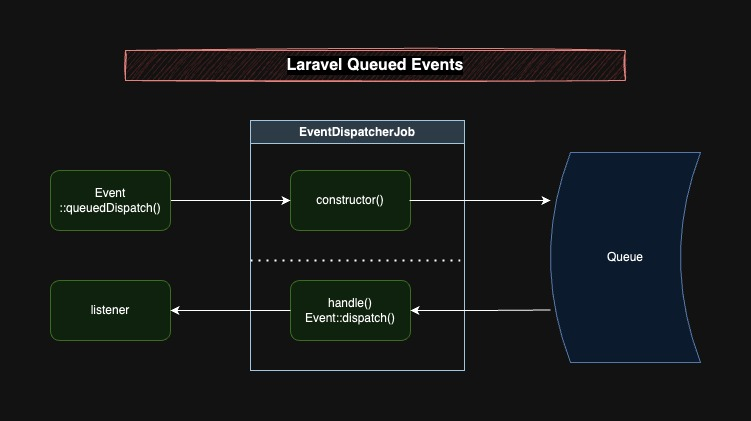
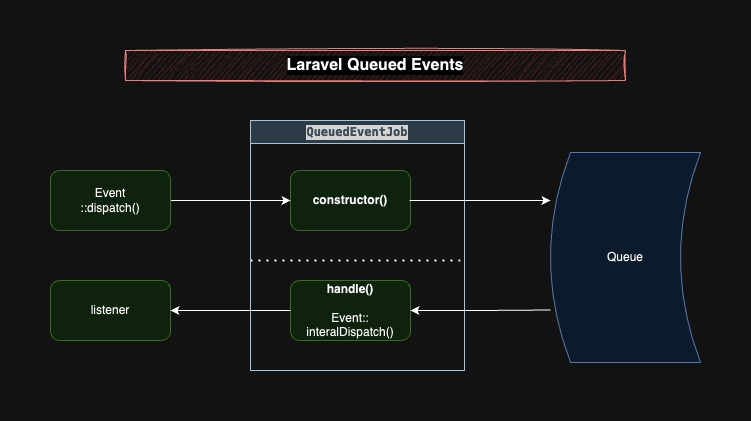
refactor/renamed-functions (#2)

diff --git a/tests/Feature/DispatchTest.php b/tests/Feature/DispatchTest.php
@@ -5,60 +5,118 @@ use Illuminate\Support\Facades\Bus;
 use Illuminate\Support\Facades\Event;
 use Workbench\App\Events\UserCreatedEvent;
 
-test('queuedDispatch should dispatch a job', function () {
+test('dispatch should dispatch a job and not dispatch event', function () {
     Bus::fake();
+    Event::fake();
 
     $payload = ['foo' => 'bar'];
 
-    UserCreatedEvent::queuedDispatch($payload);
+    UserCreatedEvent::dispatch($payload);
 
     Bus::assertDispatched(static function (QueuedEventJob $job) use ($payload) {
         return $job->event->object === $payload;
     });
+
+    Event::assertNotDispatched(UserCreatedEvent::class);
 });
 
-test('queuedDispatchIf should dispatch a job', function () {
+test('internalDispatch should not dispatch a job and dispatch event', function () {
     Bus::fake();
+    Event::fake();
 
     $payload = ['foo' => 'bar'];
 
-    UserCreatedEvent::queuedDispatchIf(true, $payload);
-
-    Bus::assertDispatched(static function (QueuedEventJob $job) use ($payload) {
-        return $job->event->object === $payload;
-    });
-});
-
-test('queuedDispatchUnless should dispatch a job', function () {
-    Bus::fake();
-
-    $payload = ['foo' => 'bar'];
-
-    UserCreatedEvent::queuedDispatchUnless(false, $payload);
-
-    Bus::assertDispatched(static function (QueuedEventJob $job) use ($payload) {
-        return $job->event->object === $payload;
-    });
-});
-
-test('queuedDispatchIf event should not dispatch a job if condition is falsy', function () {
-    Bus::fake();
-
-    $payload = ['foo' => 'bar'];
-
-    UserCreatedEvent::queuedDispatchIf(false, $payload);
+    UserCreatedEvent::internalDispatch($payload);
 
     Bus::assertNotDispatched(QueuedEventJob::class);
+
+    Event::assertDispatched(static function (UserCreatedEvent $event) use ($payload) {
+        return $event->object === $payload;
+    });
 });
 
-test('queuedDispatchUnless should not dispatch a job if condition is truthy', function () {
+test('dispatchIf should dispatch a job and not dispatch event', function () {
     Bus::fake();
+    Event::fake();
 
     $payload = ['foo' => 'bar'];
 
-    UserCreatedEvent::queuedDispatchUnless(true, $payload);
+    UserCreatedEvent::dispatchIf(true, $payload);
+
+    Bus::assertDispatched(static function (QueuedEventJob $job) use ($payload) {
+        return $job->event->object === $payload;
+    });
+
+    Event::assertNotDispatched(UserCreatedEvent::class);
+});
+
+test('internalDispatchIf should not dispatch a job and dispatch event', function () {
+    Bus::fake();
+    Event::fake();
+
+    $payload = ['foo' => 'bar'];
+
+    UserCreatedEvent::internalDispatchIf(true, $payload);
 
     Bus::assertNotDispatched(QueuedEventJob::class);
+
+    Event::assertDispatched(static function (UserCreatedEvent $event) use ($payload) {
+        return $event->object === $payload;
+    });
+});
+
+test('dispatchUnless should dispatch a job and not dispatch event', function () {
+    Bus::fake();
+    Event::fake();
+
+    $payload = ['foo' => 'bar'];
+
+    UserCreatedEvent::dispatchUnless(false, $payload);
+
+    Bus::assertDispatched(static function (QueuedEventJob $job) use ($payload) {
+        return $job->event->object === $payload;
+    });
+
+    Event::assertNotDispatched(UserCreatedEvent::class);
+});
+
+test('internalDispatchUnless should not dispatch a job and dispatch event', function () {
+    Bus::fake();
+    Event::fake();
+
+    $payload = ['foo' => 'bar'];
+
+    UserCreatedEvent::internalDispatchUnless(false, $payload);
+
+    Bus::assertNotDispatched(QueuedEventJob::class);
+
+    Event::assertDispatched(static function (UserCreatedEvent $event) use ($payload) {
+        return $event->object === $payload;
+    });
+});
+
+test('dispatchIf event should not dispatch a job if condition is falsy', function () {
+    Bus::fake();
+    Event::fake();
+
+    $payload = ['foo' => 'bar'];
+
+    UserCreatedEvent::dispatchIf(false, $payload);
+
+    Bus::assertNotDispatched(QueuedEventJob::class);
+    Event::assertNotDispatched(UserCreatedEvent::class);
+});
+
+test('dispatchUnless should not dispatch a job if condition is truthy', function () {
+    Bus::fake();
+    Event::fake();
+
+    $payload = ['foo' => 'bar'];
+
+    UserCreatedEvent::dispatchUnless(true, $payload);
+
+    Bus::assertNotDispatched(QueuedEventJob::class);
+    Event::assertNotDispatched(UserCreatedEvent::class);
 });
 
 test('event should be dispatched on job handle', function () {
@@ -66,7 +124,7 @@ test('event should be dispatched on job handle', function () {
 
     $payload = ['foo' => 'bar'];
 
-    QueuedEventJob::dispatch(new UserCreatedEvent($payload));
+    config('queued_events.job')::dispatch(new UserCreatedEvent($payload));
 
     Event::assertDispatched(static function (UserCreatedEvent $event) use ($payload) {
         return $event->object === $payload;

diff --git a/src/Events/QueuedEvent.php b/src/Events/QueuedEvent.php
@@ -2,32 +2,45 @@
 
 namespace Acdphp\QueuedEvents\Events;
 
-use Acdphp\QueuedEvents\Jobs\QueuedEventJob;
 use Illuminate\Foundation\Bus\PendingDispatch;
+use Illuminate\Foundation\Events\Dispatchable;
 
 class QueuedEvent
 {
-    public static function queuedDispatch(): PendingDispatch
+    use Dispatchable
+    {
+        dispatch as internalDispatch;
+        dispatchIf as internalDispatchIf;
+        dispatchUnless as internalDispatchUnless;
+    }
+
+    public static function dispatch(): PendingDispatch
     {
         /**
          * @phpstan-ignore-next-line
          */
-        return QueuedEventJob::dispatch(new static(...func_get_args()));
+        return config('queued_events.job')::dispatch(new static(...func_get_args()));
     }
 
-    public static function queuedDispatchIf(bool $boolean, mixed ...$arguments): ?PendingDispatch
+    public static function dispatchIf(bool $boolean, mixed ...$arguments): ?PendingDispatch
     {
         if ($boolean) {
-            return static::queuedDispatch(...$arguments);
+            /**
+             * @phpstan-ignore-next-line
+             */
+            return static::dispatch(...$arguments);
         }
 
         return null;
     }
 
-    public static function queuedDispatchUnless(bool $boolean, mixed ...$arguments): ?PendingDispatch
+    public static function dispatchUnless(bool $boolean, mixed ...$arguments): ?PendingDispatch
     {
         if (! $boolean) {
-            return static::queuedDispatch(...$arguments);
+            /**
+             * @phpstan-ignore-next-line
+             */
+            return static::dispatch(...$arguments);
         }
 
         return null;

diff --git a/src/QueuedEventsServiceProvider.php b/src/QueuedEventsServiceProvider.php
@@ -15,5 +15,8 @@ class QueuedEventsServiceProvider extends ServiceProvider
 
     public function boot(): void
     {
+        $this->publishes([
+            __DIR__.'/../config/queued_events.php' => config_path('queued_events.php'),
+        ], 'queued-events-config');
     }
 }

diff --git a/workbench/app/Events/UserCreatedEvent.php b/workbench/app/Events/UserCreatedEvent.php
@@ -3,12 +3,9 @@
 namespace Workbench\App\Events;
 
 use Acdphp\QueuedEvents\Events\QueuedEvent;
-use Illuminate\Foundation\Events\Dispatchable;
 
 class UserCreatedEvent extends QueuedEvent
 {
-    use Dispatchable;
-
     public function __construct(public $object)
     {
     }

diff --git a/config/queued_events.php b/config/queued_events.php
@@ -2,5 +2,8 @@
 
 return [
     'default_queue_connection' => env('QUEUED_EVENTS_QUEUE_CONNECTION', env('QUEUE_CONNECTION')),
+
     'default_queue' => env('QUEUED_EVENTS_QUEUE', 'default'),
+
+    'job' => \Acdphp\QueuedEvents\Jobs\QueuedEventJob::class,
 ];

diff --git a/README.md b/README.md
@@ -15,46 +15,58 @@ Dispatching Events into queues. This is especially useful for distributed system
 1. Extend `QueuedEvent` to your event.
    ```php
    use Acdphp\QueuedEvents\Events\QueuedEvent;
-   use Illuminate\Foundation\Events\Dispatchable;
   
    class UserCreatedEvent extends QueuedEvent
    {
-       use Dispatchable;
-      
+       // Remove the Dispatchable trait
+   
        public function __construct(public $object)
        {
        }
    }
    ```
 
-2. Call `queuedDispatch()`
+2. Call `dispatch()`
    ```php
-   UserCreatedEvent::queuedDispatch(['foo' => 'bar']);
+   UserCreatedEvent::dispatch(['foo' => 'bar']);
    ```
    
-- You may specify a queue connection and queue:
+   - You may specify a queue connection and queue:
    ```php
-   UserCreatedEvent::queuedDispatch(['foo' => 'bar'])
+   UserCreatedEvent::dispatch(['foo' => 'bar'])
        ->onConnection('your-fanout-queue-connection')
        ->onQueue('your-custom-queue');
    ```
   
-- Utilities are also available: `queuedDispatchIf()`, `queuedDispatchUnless()`
+    - Utilities are also available: `dispatchIf()`, `dispatchUnless()`
     ```php
-   // Dispatches if $condition is true
-   UserCreatedEvent::queuedDispatchIf($condition, ['foo' => 'bar']);
+    // Dispatches if $condition is true
+    UserCreatedEvent::dispatchIf($condition, ['foo' => 'bar']);
+    
+    // Dispatches if $condition is false
+    UserCreatedEvent::dispatchUnless($condition, ['foo' => 'bar']);
+    ```
+
+3. Default dispatch methods are prefixed with `internal`
+   ```php
+   UserCreatedEvent::internalDispatch(['foo' => 'bar']);
    
-   // Dispatches if $condition is false
-   UserCreatedEvent::queuedDispatchUnless($condition, ['foo' => 'bar']);
+   UserCreatedEvent::internalDispatchIf(['foo' => 'bar']);
+   
+   UserCreatedEvent::internalDispatchUnless(['foo' => 'bar']);
    ```
 
 ## Configuration
 - By default, the queue connection will be whatever your `QUEUE_CONNECTION` is set. You may override this by setting `QUEUED_EVENTS_QUEUE_CONNECTION`
 - By default, the queue will be `default`. You may override this by setting `QUEUED_EVENTS_QUEUE`
-- This config, of course, can be overridden in your code as seen from the queuedDispatch usage example.
+- This config, of course, can be overridden in your code as seen from the usage example or by publishing it:
+    ```shell
+    php artisan vendor:publish --tag=queued-events-config
+    ```
 
 ## Notes
-- Use Laravel's queued listener if you're only using this in a standalone system. 
+- Using all Laravel helper to dispatch except static `::dispatch`, `::dispatchIf` and `::dispatchUnless` will dispatch the job internally. Example `event(...)` or `app('events')->dispatch(...)`.
+- Use Laravel's queued listener if you're only using this in a monolithic application. 
 
 ## License
 The MIT License (MIT). Please see [License File](LICENSE) for more information.
